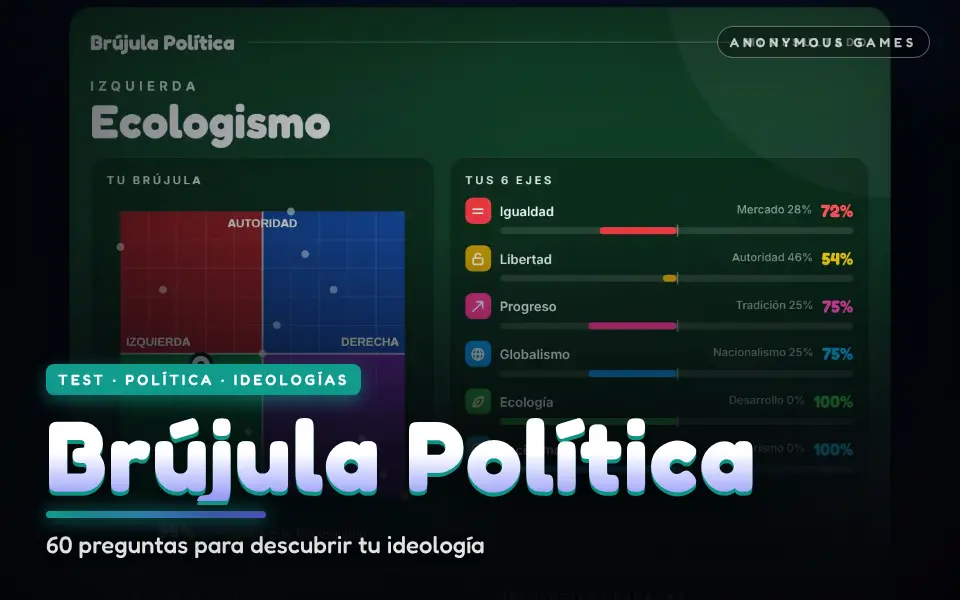
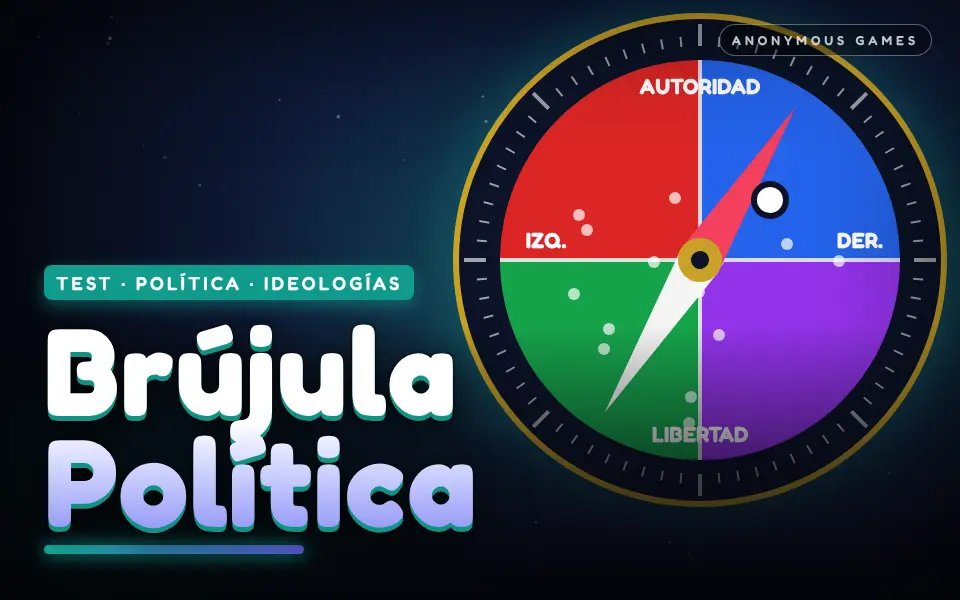
Portal: carátulas ilustradas para los 12 juegos
Cada carátula del estante tiene ahora una escena dibujada (escenas.mjs)
de lo que pasa en el juego en vez de una captura oscura o de un menú, y
el logo es más grande; se quita la frase que no se leía en el estante.

Claude-Session: https://claude.ai/code/session_01WWHYSR6KGzvo1D5ZSPkN5w

diff --git a/CLAUDE.md b/CLAUDE.md
@@ -5,7 +5,7 @@ Portal que junta los juegos del repositorio. Todo el texto en español. Sin comp
 - `index.html`: estructura fija (intro, cabecera con los botones de arriba a la derecha: about:blank, sonido y perfil; `#view`, panel del perfil, avisos).
 - El botón about:blank (`openBlank` en `portal.js`) abre una pestaña `about:blank` titulada "Classes" con el portal en un iframe. El usuario lo llama "el botón de siempre": tiene que estar arriba a la derecha.
 - Juegos: `formula-3d/` (Ápice GP; el portal usa `formula-3d/apice-gp.html`, ver README para rearmarlo), `karting/`, `codigo-rojo/`, `cornisa/`, `combi-rush/`, `fuga-urbana/`, `sazon-tycoon/`, `modo-carrera-futbol/`, `tower-defense/`, `escalada/`, `mind-escape/`, `brujula-politica/` (test de ideología de 60 preguntas, un solo archivo; portadas con `node portal/tools/portada-brujula.mjs`, prueba en `portal/tests/brujula.mjs`).
-- `portal/games.js`: `GAMES` (catálogo; `box` es la carátula con logo que usa el estante del inicio, se rearma con `node portal/tools/caratulas.mjs`), `SOON` (fichas "Próximamente"), `CATS` (categorías). `progress()` de cada juego lee su guardado en `localStorage` (`kartodromo-save-v1`, `codigorojo_v1`, `cornisa_v1`, `sazon_tycoon_v1`, `combirush_v1`, `fuga-urbana-v1`, `mcf_save_v1`/`mcf_hall_v1`, `reino-en-guardia-perfil-v1`, `dontlookup.v1`, `mindEscape_progress`, `brujula_politica_v1`; Ápice GP usa IndexedDB y no se lee): si un juego cambia su formato, actualizar esa función.
+- `portal/games.js`: `GAMES` (catálogo; `box` es la carátula con logo que usa el estante del inicio, se rearma con `node portal/tools/caratulas.mjs`; el fondo es la escena ilustrada de `portal/tools/escenas.mjs` o, si no hay, la mejor captura), `SOON` (fichas "Próximamente"), `CATS` (categorías). `progress()` de cada juego lee su guardado en `localStorage` (`kartodromo-save-v1`, `codigorojo_v1`, `cornisa_v1`, `sazon_tycoon_v1`, `combirush_v1`, `fuga-urbana-v1`, `mcf_save_v1`/`mcf_hall_v1`, `reino-en-guardia-perfil-v1`, `dontlookup.v1`, `mindEscape_progress`, `brujula_politica_v1`; Ápice GP usa IndexedDB y no se lee): si un juego cambia su formato, actualizar esa función.
 - `portal/portal.js`: rutas por ancla simple (`#inicio`, `#biblioteca`, `#logros`, `#juego-<id>`; el visor de Claude sólo deja pasar anclas así), inicio como menú de consola (`renderDash`, `setSel`, estante `.shelf` de `.gcard`, mando en `padLoop`), `renderLibrary`, `renderAch`, vistas como plantillas de texto, perfil `P` (clave `anonymousGames_v1`), niveles (`levelOf`), insignias (`ACH`, `checkAch`), sonido (`SFX`, Web Audio), reproductor (`startGame` mete el juego en un `iframe`; `stopGame` lo quita al salir).
 - `portal/portal.css`: tokens en `:root`, adaptable a 320 px, respeta `prefers-reduced-motion`.
 - Nada de `alert()`/`confirm()`: avisos con `toast()`, confirmaciones con doble toque.
